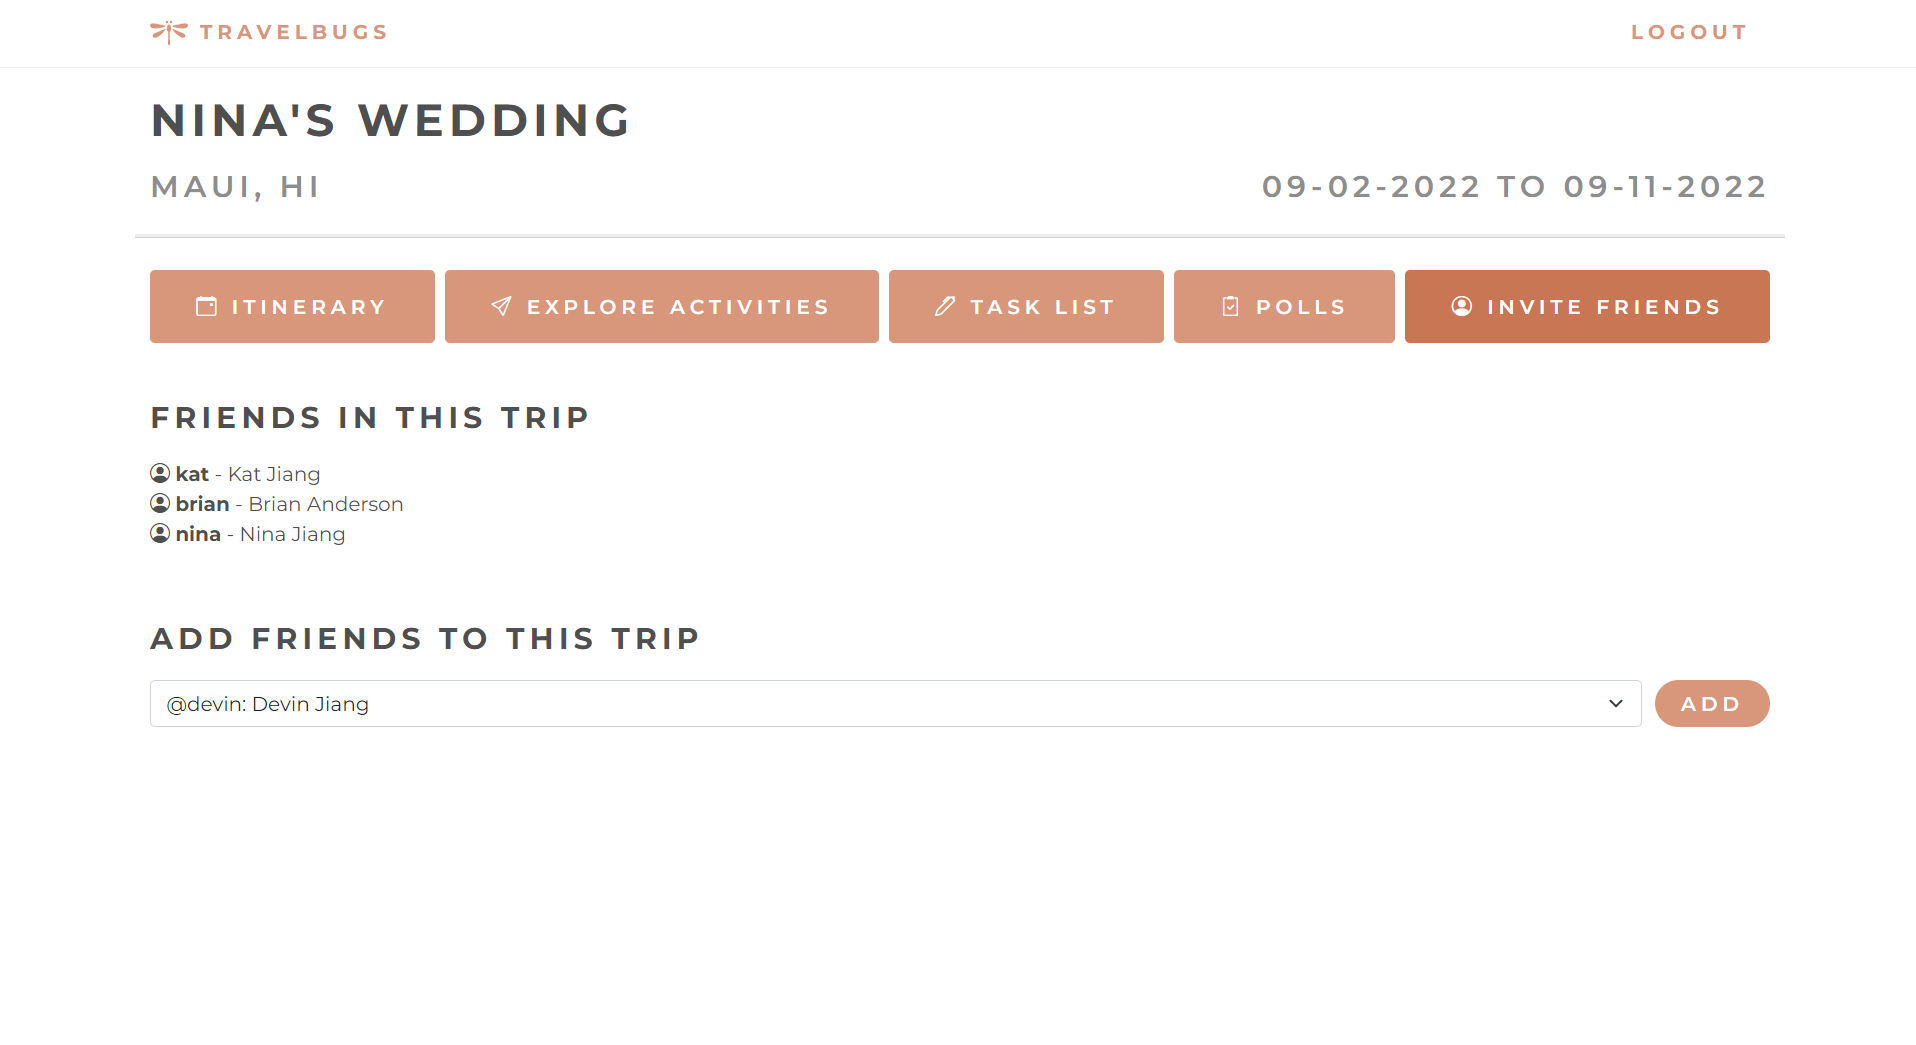
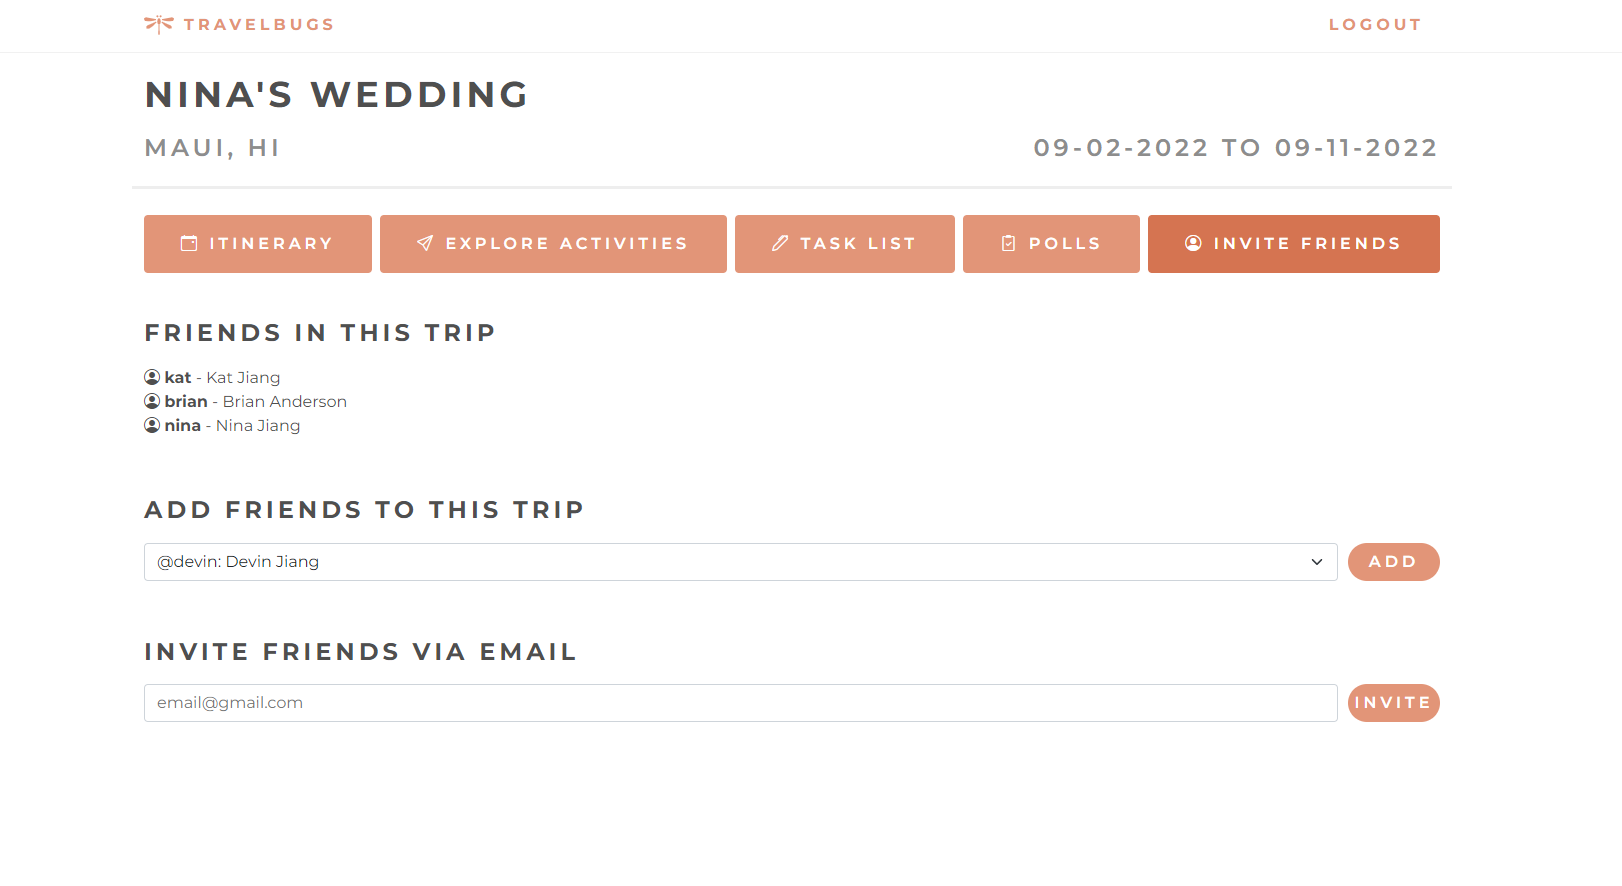
added invite friend via email feature to trip-invite page

diff --git a/templates/invite-friends.html b/templates/invite-friends.html
@@ -40,6 +40,14 @@
         <button class="btn-add" type="submit">Add</button>
       </form>
     </p>
+    <p>
+      <h2>Invite friends via email</h2>
+      <form action="/invite-via-email">
+        <input type="hidden" name="trip-id-email" value="{{trip.trip_id}}">
+        <input type="email" class="form-email" id="email" name="email" placeholder="email@gmail.com" pattern="^[a-zA-Z0-9_.+-]+@[a-zA-Z0-9-]+\.[a-zA-Z0-9-.]+$" required>
+        <button class="btn-add" type="submit">Invite</button>
+      </form>
+    </p>
   </div>
 
 </div>

diff --git a/static/css/invite.css b/static/css/invite.css
@@ -34,3 +34,20 @@ form {
   background-color: var(--primary-color-dark);
   border-color: var(--primary-color-dark);
 }
+
+.form-email {
+  display: block;
+  width: 100%;
+  padding: 0.375rem 2.25rem 0.375rem 0.75rem;
+  border: 1px solid #ced4da;
+  border-radius: 0.25rem;
+}
+
+.form-email:focus-visible {
+  outline: none;
+}
+
+.form-select:focus {
+  border-color: #ced4da;
+  box-shadow: none;
+}

diff --git a/server.py b/server.py
@@ -8,6 +8,8 @@ from passlib.hash import argon2
 from model import connect_to_db, db
 import crud
 from datetime import datetime
+from sendgrid import SendGridAPIClient
+from sendgrid.helpers.mail import Mail
 
 
 app = Flask(__name__)
@@ -262,6 +264,39 @@ def add_friend_to_trip():
     db.session.commit()
 
     return redirect(f'/trip/{trip_id}/invite')
+
+@app.route('/invite-via-email')
+def send_email_invite():
+    """Sends email to invite friend to site"""
+    #retrieve user and trip id from form
+    email = request.args.get("email")
+    trip_id = request.args.get("trip-id-email")
+    user_id = session.get('user')
+    #retrieve trip/user info from db
+    trip = crud.get_trip_by_id(trip_id)
+    user = crud.get_user_by_id(user_id)
+    #check if email already in database
+    friend = crud.get_user_by_email(email)
+
+    if friend:
+        flash("Your friend already has an account")
+
+    message = Mail(
+    from_email='travelbugsdemo@gmail.com',
+    to_emails=email,
+    subject=f'{user.fname} invites you to join Travelbugs',
+    html_content= f'Hi! <br> Your friend {user.fname} is planning a trip: <br><br> {trip.trip_name} <br> {trip.trip_location} <br> {trip.start_date.date()} to {trip.end_date.date()} <br><br> {user.fname} invites you to join Travelbugs so you guys can plan the trip together! <br> Click this <a href="http://3.91.159.152/">link</a> to be directed to Travelbugs, where you can create an account and start planning! <br> See you there!')
+
+    sg = SendGridAPIClient(os.environ.get('SENDGRID_API_KEY'))
+    response = sg.send(message)
+    print(response.status_code)
+    print(response.body)
+    print(response.headers)
+
+    flash("Email has been sent")
+
+    return redirect(f'/trip/{trip_id}/invite')
+
 
 # ----- ROUTES FOR TRIP ACTIVITY ----- #
 

diff --git a/README.md b/README.md
@@ -11,7 +11,7 @@ Traveling with a group of friends is very fun, but can be difficult to coordinat
 ## Technologies Used
 * Backend: Python, Flask, SQL, PostgreSQL, SQLAlchemy
 * Frontend: Javascript, React JS, HTML, CSS, Bootstrap, AJAX, JSON, Jinja2
-* APIs: Mapbox API (Mapbox GL JS, Mapbox Geocoding API), Yelp Fusion API, Unsplash Image API, Chart.js
+* APIs: Mapbox API (Mapbox GL JS, Mapbox Geocoding API), Yelp Fusion API, Unsplash Image API, Chart.js, Twilio's Sendgrid API
 ## Features
 🎥 [See a full video walk-through](https://www.youtube.com/watch?v=9KIX7lISdeE)
 
@@ -28,8 +28,10 @@ Traveling with a group of friends is very fun, but can be difficult to coordinat
 ![Travelbugs Homepage](/static/screenshots/homepage.png)
 
 ### Trip Page - Friend-Invite
-* Users can add friends to the trip
+* Users can add friends to the trip via the select menu
+* Users can send an email invite to their friend's email to invite them to Travelbugs
 ![Travelbugs Trip Invite](/static/screenshots/trip-invite.png)
+![Travelbugs Trip Invite](/static/screenshots/trip-invite-email-demo.png)
 
 ### Trip Page - Explore Activities
 * Users can see top rated restaurants and activities from Yelp's Fusion API
@@ -70,15 +72,26 @@ Install the dependencies:
 ```
 pip install -r requirements.txt
 ```
-Sign up to obtain keys for the Mapbox API, Yelp API, and Unsplash Images API
+Sign up to obtain keys for the Mapbox API, Yelp API, Unsplash Images API and SendGrid API
 
-Save your API keys in a file called `secrets.sh` using this format:
+Save your Mapbox API key in a file called `config.js` using this format:
+```
+export const config = {
+  'mapboxApiKey' : 'YOUR_KEY_GOES_HERE'
+}
+```
+Save your Yelp and Unsplash API keys in a file called `secrets.sh` using this format:
 ```
 export APP_KEY="YOUR_KEY_GOES_HERE"
 ```
-Source your keys from your `secrets.sh` file into your virtual environment:
+Save your SendGrid API key in a file called `sendgrid.env` using this format:
+```
+export SENDGRID_API_KEY="YOUR_KEY_GOES_HERE"
+```
+Source your keys into your virtual environment:
 ```
 source secrets.sh
+source sendgrid.env
 ```
 Set up the database:
 ```
